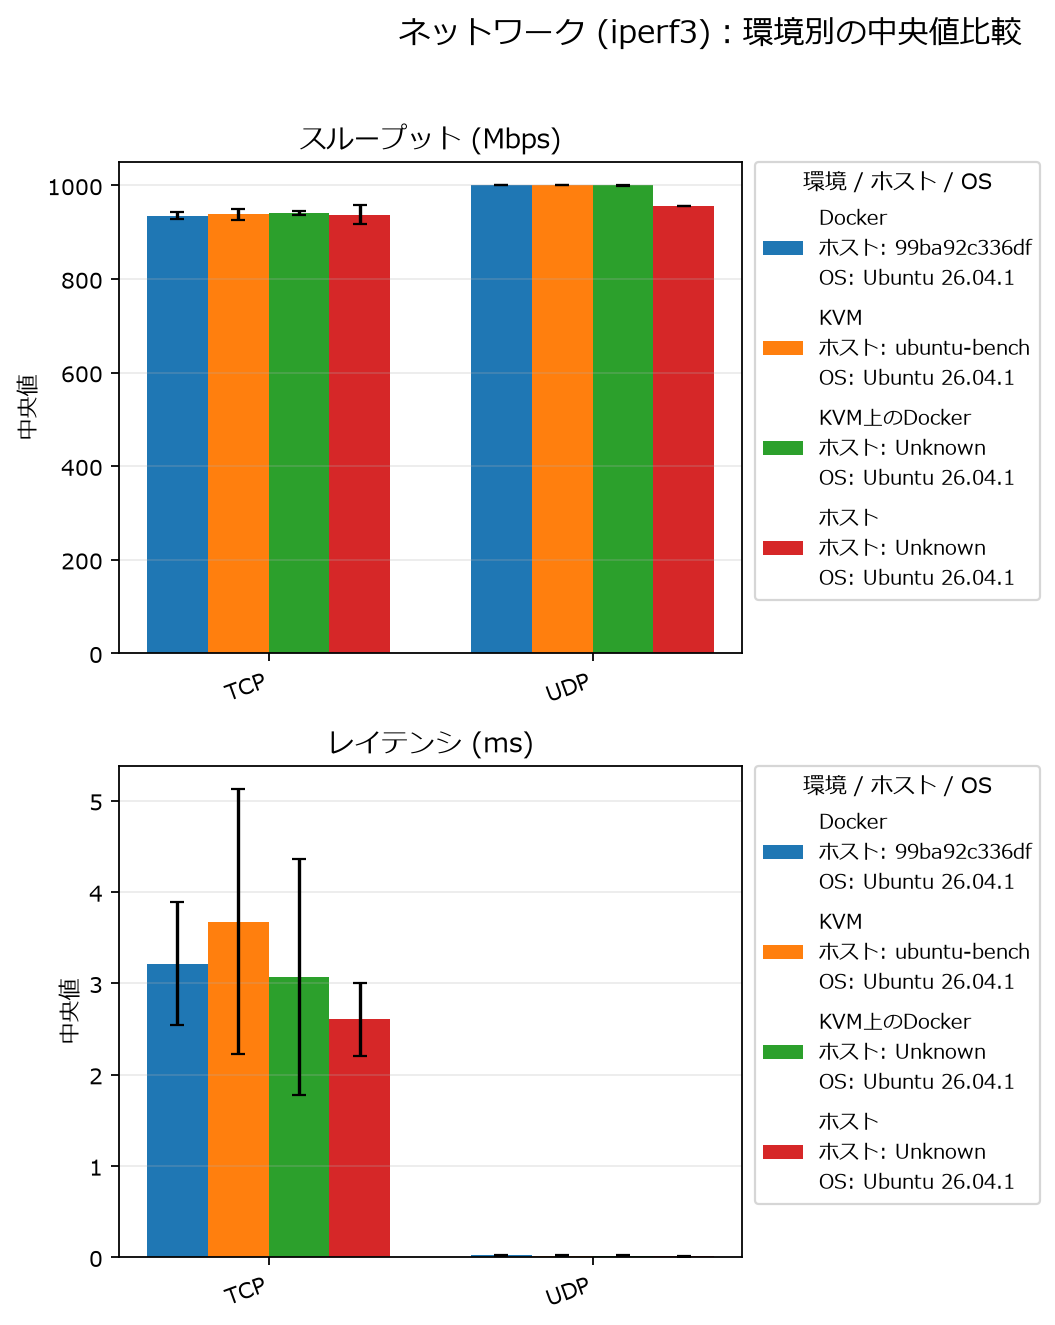
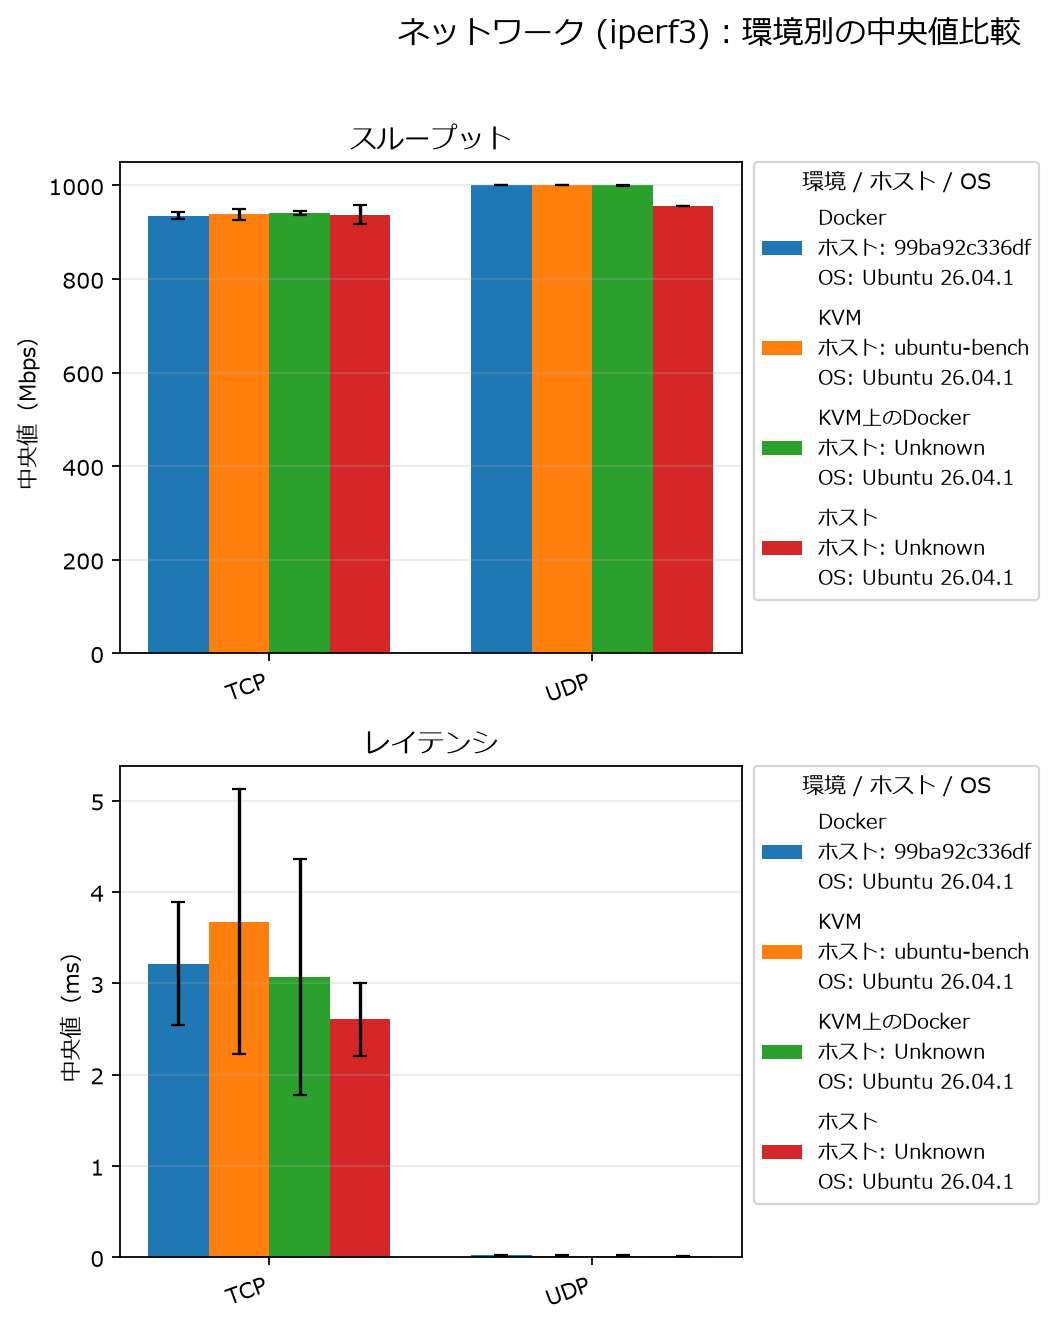
graph

diff --git a/2026-10-21-15-58-21-docker/rpr_2026-10-28.html b/2026-10-21-15-58-21-docker/rpr_2026-10-28.html
@@ -1,0 +1,159 @@
+<!doctype html>
+<html lang="ja">
+<head>
+  <meta charset="utf-8">
+  <meta name="viewport" content="width=device-width, initial-scale=1">
+  <meta name="robots" content="noindex, nofollow">
+  <meta name="description" content="2026年10月28日の研究経過報告書。Docker環境で実施したベンチマーク結果と、KVM上Docker環境の追加集計を整理した内容です。">
+  <title>2026年10月28日 研究経過報告書 | 研究ノート</title>
+  <link rel="stylesheet" href="../../static/css/style.css">
+  <script src="../../static/js/archive.js" defer></script>
+</head>
+<body>
+  <div class="site-shell">
+    <header class="site-header">
+      <a class="brand" href="../index.html">
+        <span class="brand-mark" aria-hidden="true"><span></span><span></span><span></span></span>
+        <span><strong>研究ノート</strong><small>GRADUATION RESEARCH · Gr03</small></span>
+      </a>
+      <span class="header-note"><span class="status-dot"></span>ベンチマーク結果の整理</span>
+    </header>
+
+    <main class="page-grid article-layout">
+      <section class="main-column">
+        <a class="back-link" href="../index.html">← トップページへ戻る</a>
+        <article class="article-paper">
+          <div class="article-date"><time datetime="2026-10-28">2026.10.28</time> · RESEARCH PROGRESS REPORT</div>
+          <h1>研究経過報告書</h1>
+          <p class="article-subtitle">Docker環境における性能測定と結果の集計</p>
+          <div class="article-meta">
+            <span><strong>グループ：</strong>Gr03</span>
+            <span><strong>学籍番号・氏名：</strong>123D024 大槻 雅宜</span>
+            <span><strong>学籍番号・氏名：</strong>123D075 添野 真之介</span>
+          </div>
+
+          <section class="article-section">
+            <h2>研究テーマ</h2>
+            <p>サーバー仮想化技術とコンテナ技術の性能比較および最適化に関する研究</p>
+          </section>
+
+          <section class="article-section">
+            <h2>進捗状況</h2>
+            <p>Docker環境において、sysbench、fio、iperf3を用いたベンチマークを各10回実施し、測定結果を集計した。</p>
+            <ul>
+              <li>sysbenchでは、CPU性能とメモリのREAD・WRITE性能を測定した。</li>
+              <li>fioでは、ランダムおよびシーケンシャルのREAD・WRITE性能を測定した。</li>
+              <li>iperf3では、TCP・UDPのネットワーク性能を測定した。</li>
+            </ul>
+            <p>各測定結果を整理し、Docker環境における性能の傾向と測定値のばらつきを確認した。</p>
+            <p>さらに、KVM上でDockerを動作させた環境についても同様の整理を行った。FIO、sysbench、iperf3のJSON・結果TXTから、集計に使用した値を個別に抽出できるスクリプトを作成し、抽出結果をCSVと説明用TXTに出力した。</p>
+            <ul>
+              <li>KVM上DockerのFIO：40件の測定値を抽出し、IOPS、スループット、レイテンシを集計した。</li>
+              <li>KVM上Dockerのsysbench：30件の測定値を抽出し、CPU、メモリREAD、メモリWRITEを集計した。</li>
+              <li>KVM上Dockerのiperf3：TCP・UDP合わせて20件の測定値を抽出し、スループットとレイテンシ相当値を集計した。</li>
+            </ul>
+          </section>
+
+          <section class="article-section">
+            <h2>測定結果</h2>
+            <p>Docker環境の代表的な結果は以下のとおりである。</p>
+            <div class="article-table-wrap">
+              <table class="article-table">
+                <caption>Docker環境の代表値</caption>
+                <thead>
+                  <tr><th scope="col">測定項目</th><th scope="col">平均値</th><th scope="col">標準偏差</th><th scope="col">単位</th></tr>
+                </thead>
+                <tbody>
+                  <tr><th scope="row">sysbench CPU</th><td>3,084.09</td><td>0.82</td><td>events/sec</td></tr>
+                  <tr><th scope="row">fio ランダムREAD</th><td>610,671.68</td><td>148.82</td><td>IOPS</td></tr>
+                  <tr><th scope="row">fio シーケンシャルWRITE</th><td>3,724.86</td><td>2.39</td><td>MiB/sec</td></tr>
+                  <tr><th scope="row">iperf3 TCP</th><td>933.612</td><td>7.237</td><td>Mbps</td></tr>
+                  <tr><th scope="row">iperf3 UDP</th><td>999.995</td><td>0.000</td><td>Mbps</td></tr>
+                </tbody>
+              </table>
+            </div>
+            <p>測定値の詳細と中央値を含む全項目は、集計結果として整理した。今回の結果では、iperf3 UDPのばらつきが小さく、安定した通信性能が確認できた。</p>
+          </section>
+
+          <section class="article-section">
+            <h2>追加で行ったKVM上Dockerの集計</h2>
+            <p>KVM上Docker環境では、各測定を10回分まとめて再集計した。代表的な結果は以下のとおりである。</p>
+            <div class="article-table-wrap">
+              <table class="article-table">
+                <caption>KVM上Docker環境の代表値</caption>
+                <thead>
+                  <tr><th scope="col">測定項目</th><th scope="col">平均値</th><th scope="col">中央値</th><th scope="col">標準偏差</th><th scope="col">単位</th></tr>
+                </thead>
+                <tbody>
+                  <tr><th scope="row">fio ランダムREAD IOPS</th><td>414,759.46</td><td>414,900.99</td><td>1,145.24</td><td>IOPS</td></tr>
+                  <tr><th scope="row">fio ランダムWRITE IOPS</th><td>367,671.42</td><td>367,423.29</td><td>27,761.06</td><td>IOPS</td></tr>
+                  <tr><th scope="row">sysbench CPU</th><td>6,032.96</td><td>6,033.22</td><td>1.14</td><td>events/sec</td></tr>
+                  <tr><th scope="row">sysbench memory READ</th><td>32,453.48</td><td>32,447.58</td><td>96.20</td><td>MiB/sec</td></tr>
+                  <tr><th scope="row">iperf3 TCP</th><td>938.139</td><td>940.323</td><td>3.875</td><td>Mbps</td></tr>
+                  <tr><th scope="row">iperf3 UDP</th><td>999.737</td><td>999.993</td><td>0.499</td><td>Mbps</td></tr>
+                </tbody>
+              </table>
+            </div>
+            <p>元データの取得元と単位変換を記録し、集計結果を再現できることを確認した。FIOはJSONのIOPS・帯域・レイテンシ、sysbenchは結果TXTの性能値、iperf3はJSONの集計値を使用した。</p>
+          </section>
+
+          <section class="article-section">
+            <h2>計算方法</h2>
+            <ul>
+              <li>平均値：10回分の測定値の合計を10で割った値</li>
+              <li>中央値：10個の値を並べ替え、5番目と6番目の平均を取った値</li>
+              <li>標準偏差：10回の測定値を母集団とした母標準偏差</li>
+            </ul>
+            <p>各測定の元データから使用項目と単位変換を明示したCSV/TXTを出力し、集計値が再現できることを確認した。</p>
+          </section>
+
+          <section class="article-section">
+            <h2>今後の計画</h2>
+            <ul>
+              <li>Docker、KVM、ホスト環境の測定結果を同一条件で比較する。</li>
+              <li>平均値・中央値・標準偏差の差から、各環境の性能と安定性を分析する。</li>
+              <li>外れ値が発生した測定について、CPU割り当て、I/O負荷、ネットワーク状態などの要因を確認する。</li>
+            </ul>
+          </section>
+
+          <section class="article-section">
+            <h2>参考資料</h2>
+            <p>今回作成した集計結果と、計算元データを確認するためのファイルを以下に保存した。</p>
+            <ol class="reference-list">
+              <li><a href="fio/fio_summary_avg_median.txt">Docker FIO集計結果</a></li>
+              <li><a href="sysbench/sysbench_summary_avg_median.txt">Docker sysbench集計結果</a></li>
+              <li><a href="../2026-10-21-iperf3-docker/iperf3_summary_avg_median.txt">Docker iperf3集計結果</a></li>
+              <li><a href="fio/fio_summary_avg_median.txt">Docker FIO集計結果</a>、<a href="fio/fio_values_used.txt">FIO計算元データ</a></li>
+              <li><a href="../2026-10-28-15-57-19-kvm-docker/fio/fio_summary_avg_median_kvm_docker.txt">KVM上Docker FIO集計結果</a></li>
+              <li><a href="../2026-10-28-15-57-19-kvm-docker/sysbench/sysbench_summary_avg_median.txt">KVM上Docker sysbench集計結果</a></li>
+              <li><a href="../2026-10-28-iperf3-kvm-docker/iperf3_summary_avg_median.txt">KVM上Docker iperf3集計結果</a></li>
+              <li><a href="../2026-10-28-15-57-19-kvm-docker/fio/extract_fio_values_kvm_docker.py">KVM上Docker FIO抽出・集計スクリプト</a>、<a href="../2026-10-28-15-57-19-kvm-docker/fio/fio_values_used_kvm_docker.txt">FIO計算元データ</a></li>
+              <li><a href="../2026-10-28-15-57-19-kvm-docker/sysbench/extract_sysbench_values.py">KVM上Docker sysbench抽出・集計スクリプト</a>、<a href="../2026-10-28-15-57-19-kvm-docker/sysbench/sysbench_values_used.txt">sysbench計算元データ</a></li>
+              <li><a href="../2026-10-28-iperf3-kvm-docker/extract_iperf3_values.py">KVM上Docker iperf3抽出・集計スクリプト</a>、<a href="../2026-10-28-iperf3-kvm-docker/iperf3_values_used.txt">iperf3計算元データ</a></li>
+            </ol>
+          </section>
+
+          <div class="article-end">研究経過報告書 · 2026年10月28日 · Gr03</div>
+        </article>
+      </section>
+
+      <aside class="sidebar" aria-label="報告書一覧">
+        <div class="sidebar-sticky">
+          <div class="sidebar-heading">
+            <span class="sidebar-heading-mark"></span>
+            <div><span class="section-kicker">ARCHIVE</span><h2>レポート一覧</h2></div>
+          </div>
+          <section class="archive-group">
+            <div class="archive-title"><span class="archive-icon report-icon" aria-hidden="true">▤</span><h3>研究経過報告書</h3></div>
+            <a class="archive-link is-current" href="rpr_2026-10-28.html"><span class="archive-date">2026.10.28</span><span class="archive-label">Docker環境の性能測定と結果の集計</span><span class="archive-arrow" aria-hidden="true">↗</span></a>
+          </section>
+          <section class="archive-group">
+            <div class="archive-title"><span class="archive-icon plan-icon" aria-hidden="true"></span><h3>実験計画書</h3></div>
+            <span class="archive-link"><span class="archive-date">—</span><span class="archive-label">準備中</span></span>
+          </section>
+        </div>
+      </aside>
+    </main>
+  </div>
+</body>
+</html>

diff --git a/graph_summary.py b/graph_summary.py
@@ -131,16 +131,33 @@ def metric_columns(summary: Summary) -> list[tuple[str, str, str, str | None]]:
 def display_name(column: str) -> str:
     names = {
         "iops": "IOPS",
-        "throughput_mib_s": "スループット (MiB/s)",
-        "latency_us": "レイテンシ (μs)",
-        "throughput": "スループット (Mbps)",
-        "latency": "レイテンシ (ms)",
+        "throughput_mib_s": "スループット",
+        "latency_us": "レイテンシ",
+        "throughput": "スループット",
+        "latency": "レイテンシ",
         "value": "測定値",
         "cpu": "CPU",
         "memory_read": "メモリ読み込み",
         "memory_write": "メモリ書き込み",
     }
     return names.get(column, column.replace("_", " "))
+
+
+def metric_unit(summary: Summary, base: str) -> str | None:
+    if base == "value" and "unit" in summary.columns:
+        units = {row["unit"] for row in summary.rows}
+        return next(iter(units)) if len(units) == 1 else "項目ごとに異なる単位"
+    return {
+        "iops": "IOPS",
+        "throughput_mib_s": "MiB/s",
+        "latency_us": "μs",
+        "throughput": "Mbps",
+        "latency": "ms",
+    }.get(base)
+
+
+def metric_label(summary: Summary, base: str) -> str:
+    return display_name(base)
 
 
 def safe_filename(path: Path, root: Path) -> str:
@@ -188,9 +205,9 @@ def plot_summary(summary: Summary, output_path: Path) -> None:
                 width,
                 yerr=errors_by_stat[statistic],
                 capsize=3,
-                label=statistic.title(),
+                label={"avg": "平均", "median": "中央値"}.get(statistic, statistic),
             )
-        axis.set_title(display_name(base))
+        axis.set_title(metric_label(summary, base))
         axis.set_xticks(x, labels, rotation=25, ha="right")
         axis.set_ylabel("値")
         axis.grid(axis="y", alpha=0.25)
@@ -230,7 +247,15 @@ def plot_comparison(summaries: list[Summary], output_path: Path) -> None:
         squeeze=False,
     )
     category_column = first.columns[0]
-    categories = [row[category_column] for row in first.rows]
+    category_keys = [row[category_column] for row in first.rows]
+    categories = [
+        (
+            f"{row[category_column]}\n（{row['unit']}）"
+            if category_column == "test" and "unit" in first.columns
+            else row[category_column]
+        )
+        for row in first.rows
+    ]
     x = np.arange(len(categories))
     width = 0.75 / len(summaries)
     labels = [
@@ -254,11 +279,13 @@ def plot_comparison(summaries: list[Summary], output_path: Path) -> None:
             )
             _, _, column, stddev_column = metric
             row_by_category = {row[category_column]: row for row in summary.rows}
-            values = [float(row_by_category[category][column]) for category in categories]
+            values = [
+                float(row_by_category[category][column]) for category in category_keys
+            ]
             errors = (
                 [
                     float(row_by_category[category][stddev_column])
-                    for category in categories
+                    for category in category_keys
                 ]
                 if stddev_column
                 else None
@@ -271,9 +298,10 @@ def plot_comparison(summaries: list[Summary], output_path: Path) -> None:
                 capsize=3,
                 label=summary.environment,
             )
-        axis.set_title(display_name(base))
+        axis.set_title(metric_label(first, base))
         axis.set_xticks(x, categories, rotation=20, ha="right")
-        axis.set_ylabel("中央値")
+        unit = metric_unit(first, base)
+        axis.set_ylabel(f"中央値（{unit}）" if unit else "中央値")
         axis.grid(axis="y", alpha=0.25)
         axis.legend(
             labels=labels,
